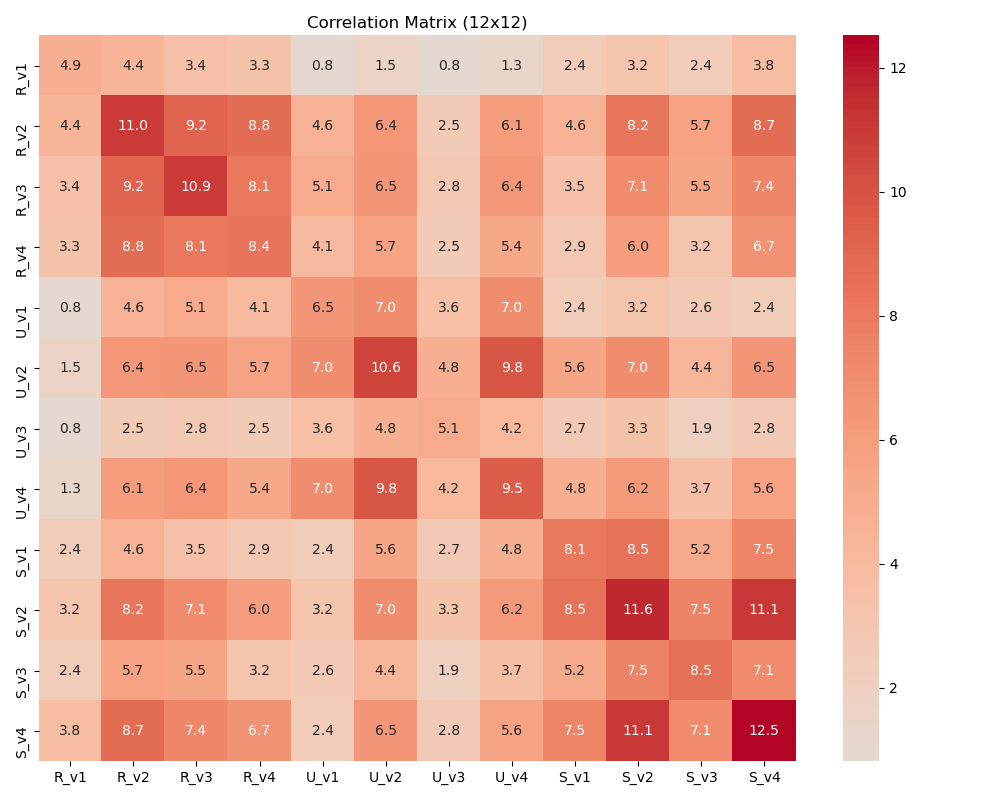
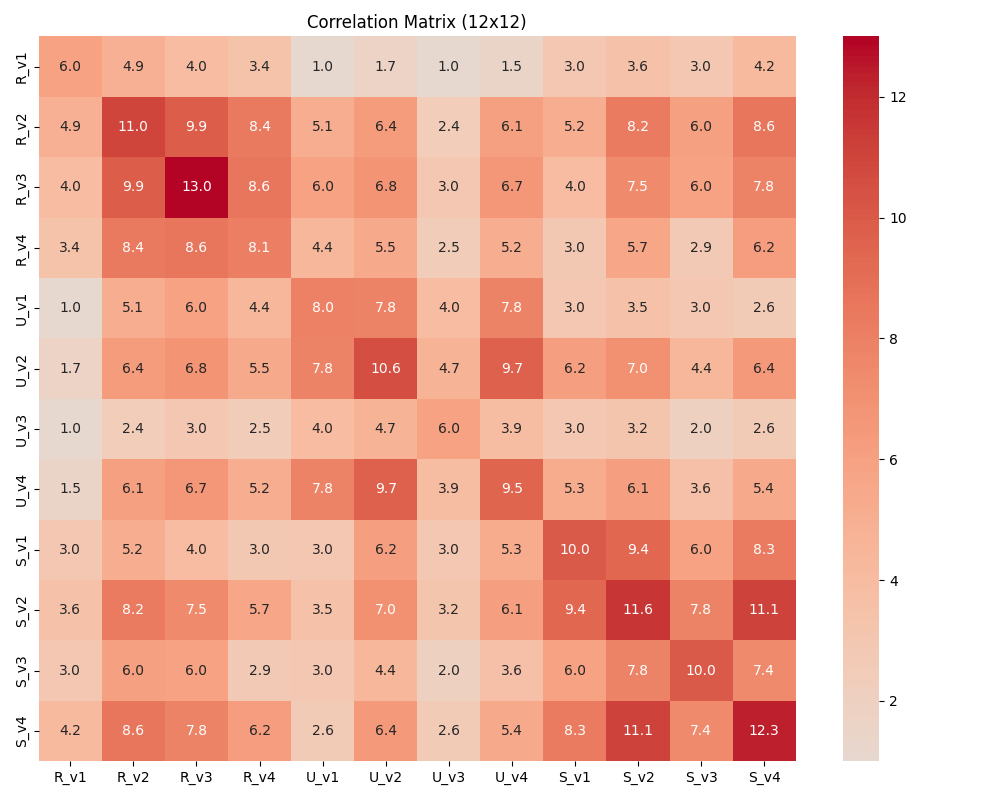
update: set color back to 1, add three pixel missclassification

diff --git a/assignment_4.py b/assignment_4.py
@@ -13,25 +13,25 @@ TOTAL_INPUTS = NUM_CHARS * NUM_VARIATIONS_PER_CHAR
 
 characters = {
   "R": np.array([
-    [0.9, 0.9, 0.9, 0.9, 0],
-    [0.9, 0, 0, 0, 0.9],
-    [0.9, 0.9, 0.9, 0.9, 0],
-    [0.9, 0, 0, 0.9, 0],
-    [0.9, 0, 0, 0, 0.9]
+    [1, 1, 1, 1, 0],
+    [1, 0, 0, 0, 1],
+    [1, 1, 1, 1, 0],
+    [1, 0, 0, 1, 0],
+    [1, 0, 0, 0, 1]
   ]),
   "U": np.array([
-    [0.9, 0, 0, 0, 0.9],
-    [0.9, 0, 0, 0, 0.9],
-    [0.9, 0, 0, 0, 0.9],
-    [0.9, 0, 0, 0, 0.9],
-    [0, 0.9, 0.9, 0.9, 0]
+    [1, 0, 0, 0, 1],
+    [1, 0, 0, 0, 1],
+    [1, 0, 0, 0, 1],
+    [1, 0, 0, 0, 1],
+    [0, 1, 1, 1, 0]
   ]),
   "S": np.array([
-      [0, 0.9, 0.9, 0.9, 0.9],
-      [0.9, 0, 0, 0, 0],
-      [0, 0.9, 0.9, 0.9, 0],
-      [0, 0, 0, 0, 0.9],
-      [0.9, 0.9, 0.9, 0.9, 0]
+      [0, 1, 1, 1, 1],
+      [1, 0, 0, 0, 0],
+      [0, 1, 1, 1, 0],
+      [0, 0, 0, 0, 1],
+      [1, 1, 1, 1, 0]
   ])
 }
 
@@ -172,6 +172,7 @@ def test_edge_cases():
                     if misclassified_count == 1:
                         predicted_char = CHAR_NAMES[np.argmax(scores)]
                         print(f"  Example: {char_name} → {predicted_char} when flipping pixel [{i},{j}]")
+    print(f"  Found {misclassified_count} misclassifications with one-pixel changes")
 
     two_pixel_misclassified = 0
 
@@ -196,8 +197,40 @@ def test_edge_cases():
                                 predicted_char = CHAR_NAMES[np.argmax(scores)]
                                 print(f"  Example: {char_name} → {predicted_char} when flipping pixels [{i1},{j1}] and [{i2},{j2}]")
 
+    print(f"  Found {two_pixel_misclassified} misclassifications with two-pixel changes")
 
-    return scores_ones, scores_zeros, misclassified_count, two_pixel_misclassified
+
+    three_pixel_misclassified = 0
+
+    for char_name in CHAR_NAMES:
+        char_matrix = characters[char_name]
+        for i1 in range(5):
+            for j1 in range(5):
+                for i2 in range(i1, 5):
+                    for j2 in range(5):
+                        if i1 == i2 and j2 <= j1:
+                            continue
+                        for i3 in range(i2, 5):
+                            for j3 in range(5):
+                                if (i2 == i3 and j3 <= j2) or (i1 == i3 and j1 == j3):
+                                    continue
+
+                                test_input = char_matrix.copy()
+                                test_input[i1, j1] = 1 - test_input[i1, j1]
+                                test_input[i2, j2] = 1 - test_input[i2, j2]
+                                test_input[i3, j3] = 1 - test_input[i3, j3]
+                                scores = test_nn1(test_input)
+                                true_idx = CHAR_NAMES.index(char_name)
+
+                                if np.argmax(scores) != true_idx:
+                                    three_pixel_misclassified += 1
+                                    if three_pixel_misclassified == 1:
+                                        predicted_char = CHAR_NAMES[np.argmax(scores)]
+                                        print(f"  Example: {char_name} → {predicted_char} when flipping pixels [{i1},{j1}], [{i2},{j2}] and [{i3},{j3}]")
+
+    print(f"  Found {three_pixel_misclassified} misclassifications with three-pixel changes")
+
+    return scores_ones, scores_zeros, misclassified_count, two_pixel_misclassified, three_pixel_misclassified
 
 
 def find_undecidable_inputs():
